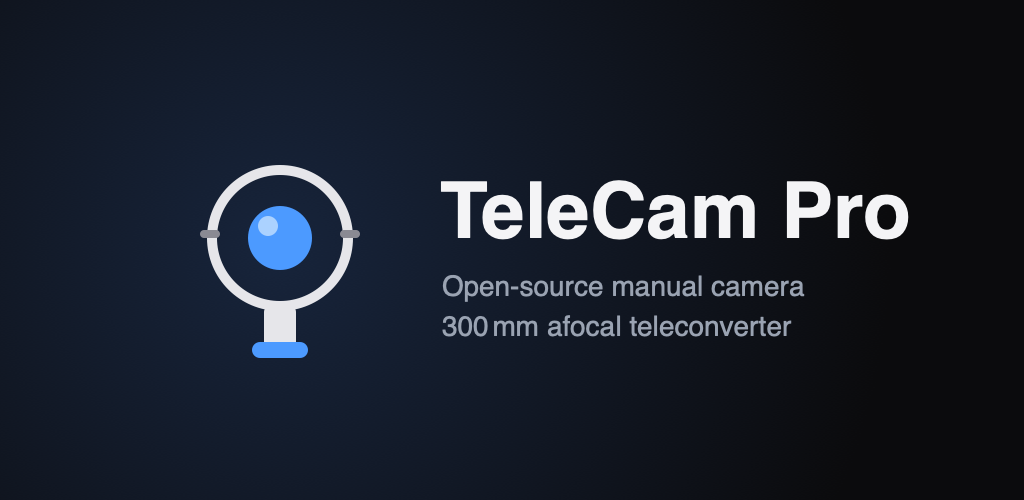
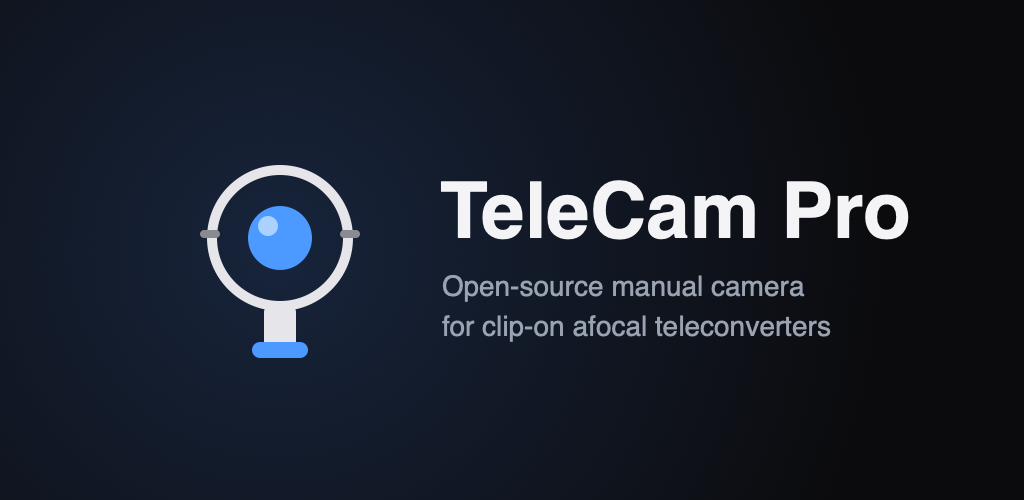
docs(assets): 🎨 drop the fixed 300 mm from the feature graphic
The store's largest asset read '300 mm afocal teleconverter'. That was written
when the app targeted one phone and one kit; the converter is now a selectable
PAIR — pick the phone, then the optics that fit it (Hasselblad 300/230, ZEISS
200/400, generic clip-ons, custom) — so a fixed focal length advertised a limit
the app does not have, on the one asset a browsing user sees before anything
else.

Now reads 'Open-source manual camera / for clip-on afocal teleconverters', which
is one sentence across the two lines and matches the short description.

Re-rendered to 1024x500 RGB (187 KiB). Deliberately NOT RGBA: Play rejects a
feature graphic carrying an alpha channel, and the intermediate qlmanage render
is RGBA, so the convert step is load-bearing rather than tidiness. The exact
regeneration commands are now in the listing doc — they existed only as prose in
an SVG comment, which is how the asset drifted out of date unnoticed.

Changed region(s): [[0.4375, 0.63, 0.8125, 0.69]]

diff --git a/docs/play-store-listing.md b/docs/play-store-listing.md
@@ -136,6 +136,25 @@ vivo X200 Ultra and X300 Ultra, plus generic clip-ons and a custom magnification
 |---|---|---|
 | Hi-res app icon | 512×512 PNG, 32-bit with alpha | `docs/assets/play/icon-512.png` (generated) |
 | Feature graphic | 1024×500 PNG/JPG, no alpha | `docs/assets/play/feature-graphic.png` (generated) |
+
+Regenerating the feature graphic from its SVG (macOS; the SVG is a 1024×1024 canvas whose design
+sits in the centre 500-row band, so it renders edge-to-edge and is then cropped):
+
+```bash
+cd docs/assets/play
+qlmanage -t -s 1024 -o /tmp/fg feature-graphic.svg
+python3 - <<'EOF'
+from PIL import Image
+im = Image.open('/tmp/fg/feature-graphic.svg.png')
+# RGB, not RGBA: Play REJECTS a feature graphic that carries an alpha channel.
+im.crop((0, 262, 1024, 762)).convert('RGB').save('feature-graphic.png', optimize=True)
+EOF
+```
+
+The tagline names no specific optic. It said "300 mm afocal teleconverter" while the app targeted
+one phone and one kit; the converter became a selectable pair, so a fixed focal length on the
+store's largest asset advertised a limit the app does not have.
+
 | Phone screenshots | >=2, PNG/JPG, 320-3840 px, max side <=2x min side, no alpha | `docs/assets/play/screenshots/` |
 
 ### Screenshots captured on PMA110
